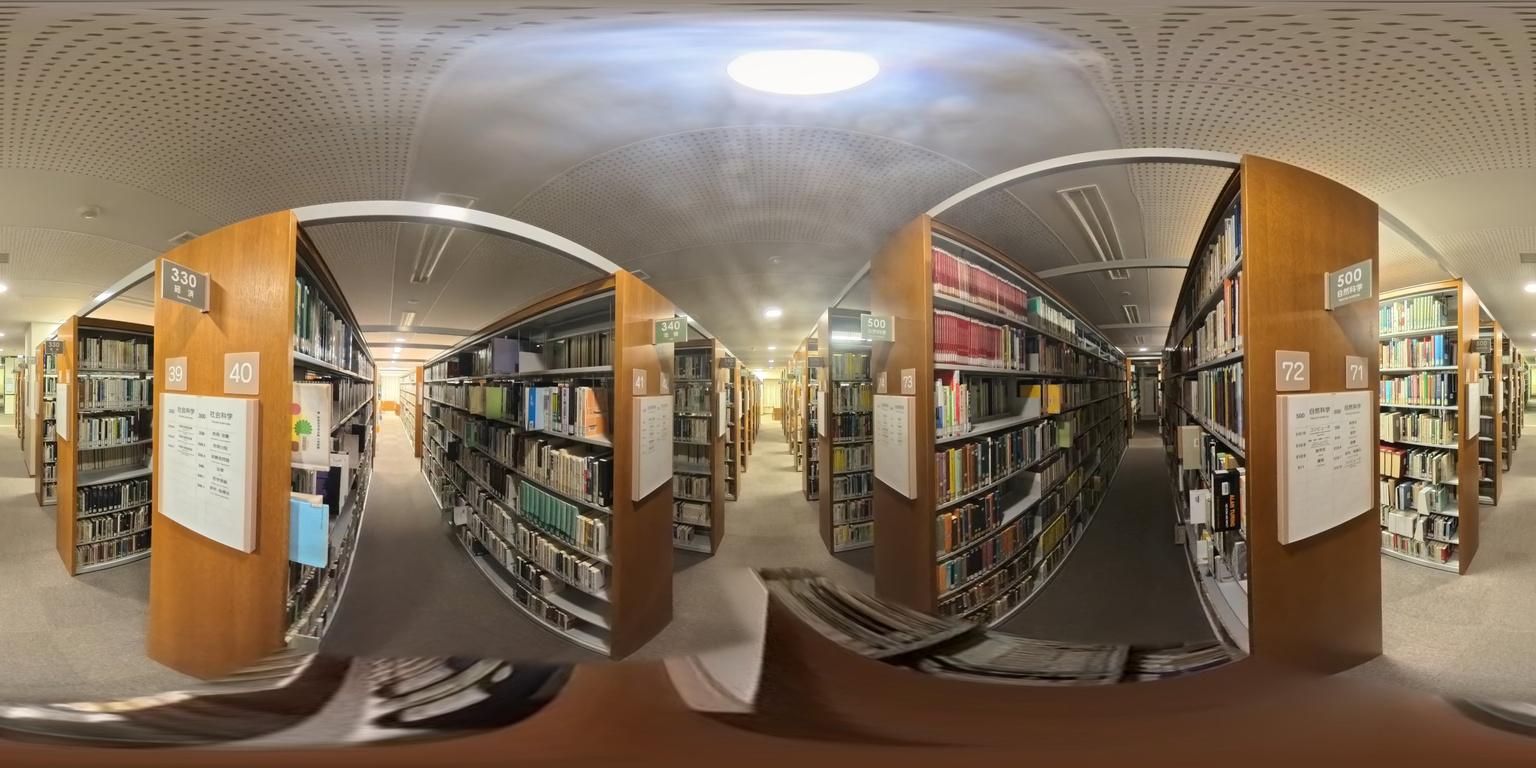
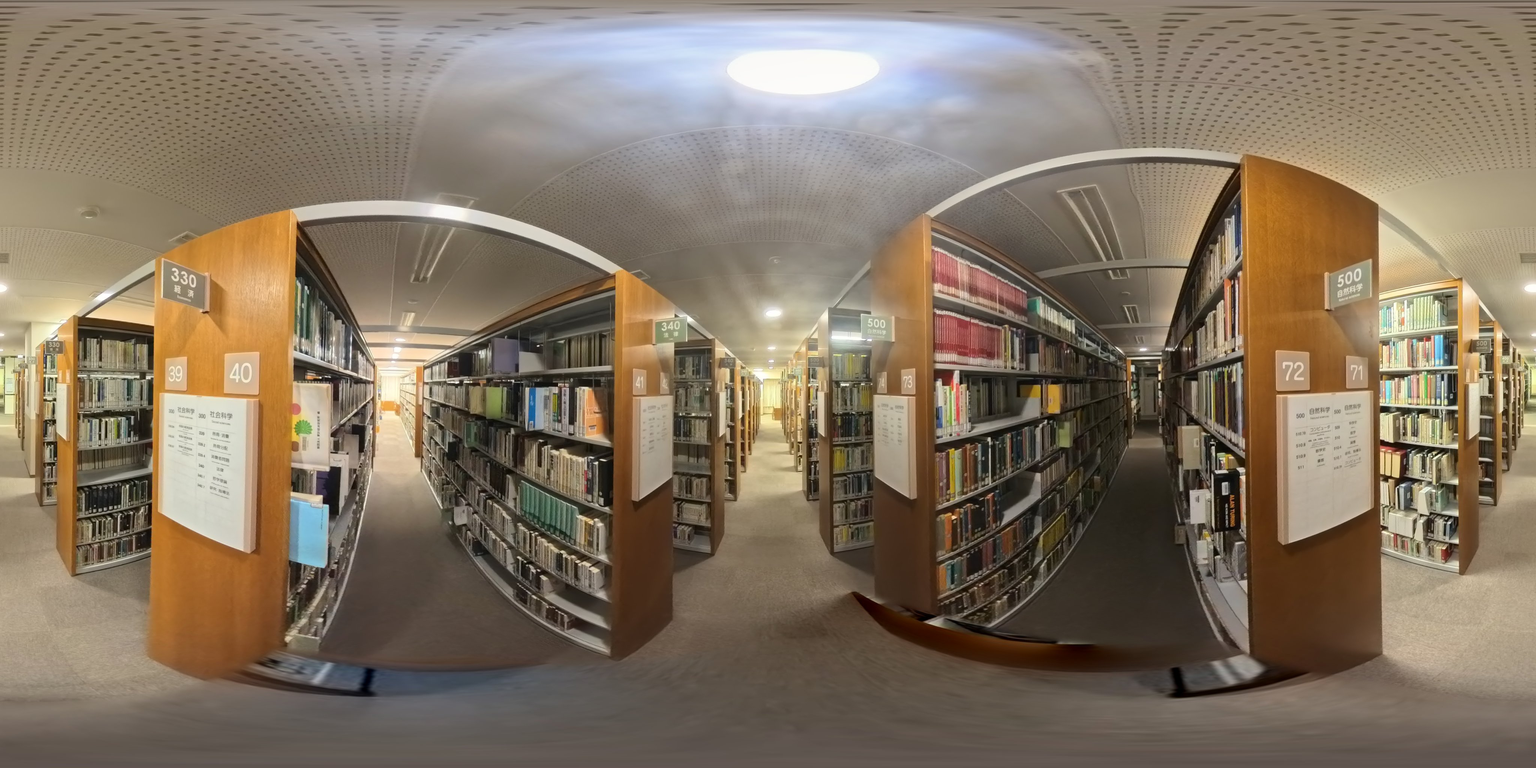
Redo the floor under the camera in the bookshelf photo
The automatic fill had copied a shelf into the aisle. fixed_shift.py
fills it from the aisle floor further along instead.

Claude-Session: https://claude.ai/code/session_01CehryqLTpyoRcjbP3Nfant

Changed region(s): [[0.0, 0.7188, 1.0, 1.0]]

diff --git a/tools/photo-prep/fixed_shift.py b/tools/photo-prep/fixed_shift.py
@@ -1,0 +1,20 @@
+"""Like remove_photographer.py, but with a hand-picked clone offset for each photo
+(for places where the automatic search copies the wrong thing, e.g. a narrow aisle).
+masks.json entries may set "shift": [dx, dy] in the 800px nadir preview coordinates
+(the fill is copied from the point that far away).
+
+  python3 fixed_shift.py masks.json in_dir out_dir
+"""
+import sys, json, os, numpy as np
+import remove_photographer as rp
+
+specs = json.load(open(sys.argv[1])); ind, outd = sys.argv[2], sys.argv[3]
+os.makedirs(outd, exist_ok=True)
+for name, spec in specs.items():
+    if "shift" in spec:
+        dx, dy = (v * rp.K for v in spec["shift"])
+        rp.best_shift = lambda img, mask, forbid, dx=dx, dy=dy: np.float32([[1, 0, dx], [0, 1, dy]])
+    img = rp.cv2.imread(os.path.join(ind, name + ".jpg"))
+    res = rp.process(img, spec)[0]
+    rp.cv2.imwrite(os.path.join(outd, name + ".jpg"), res, [rp.cv2.IMWRITE_JPEG_QUALITY, 85])
+    print(name, "done")
